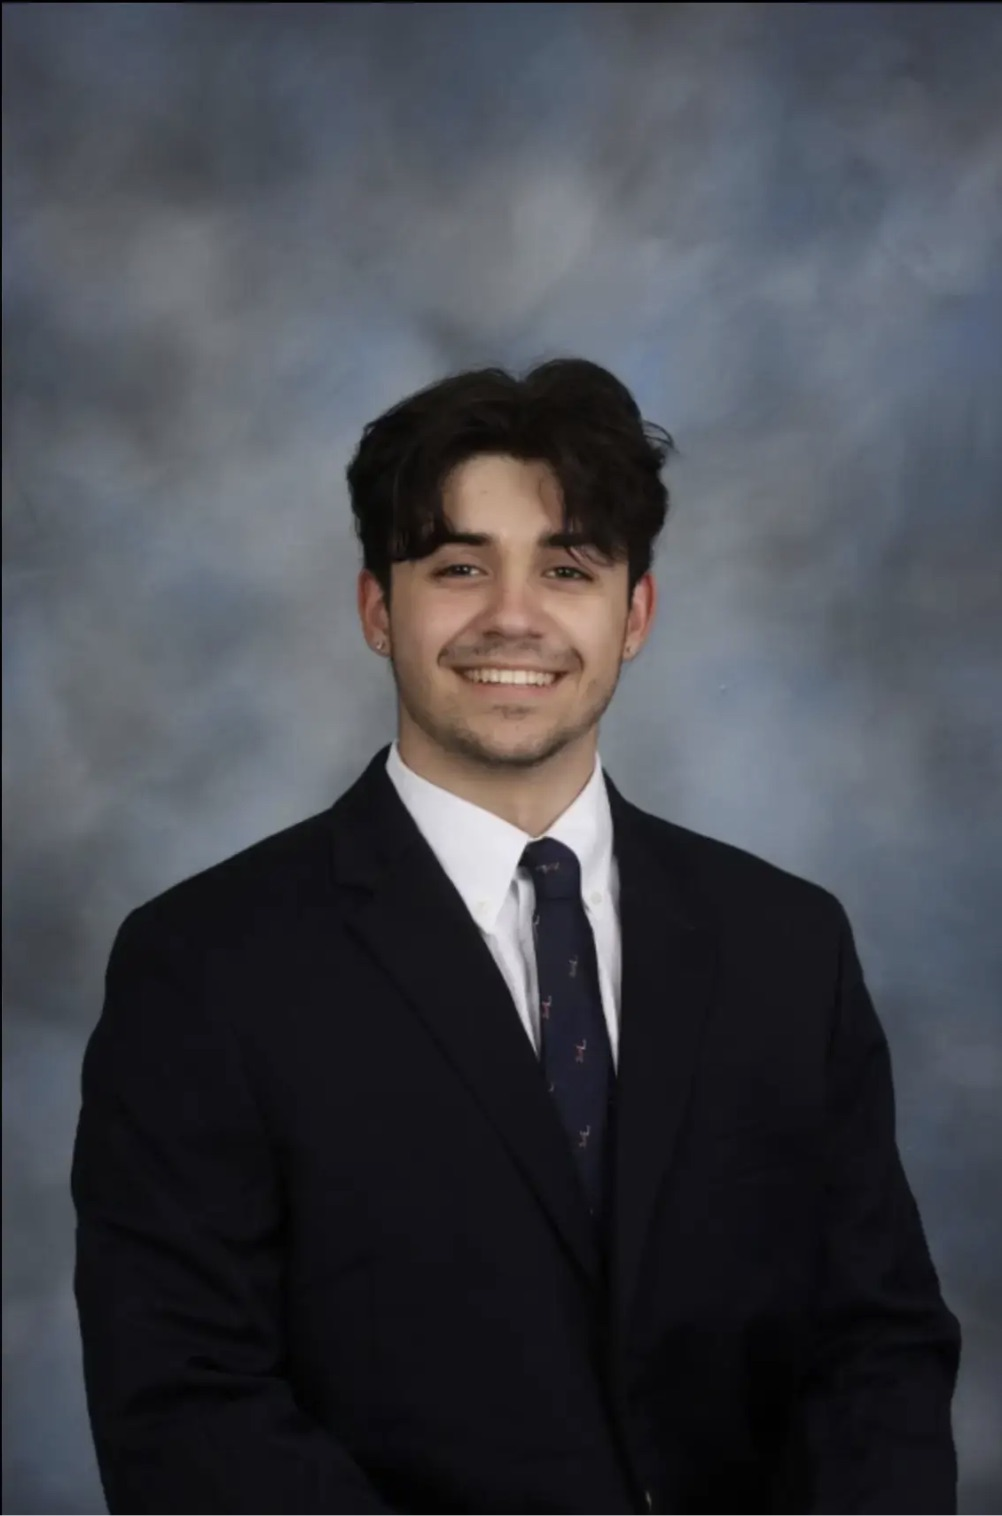
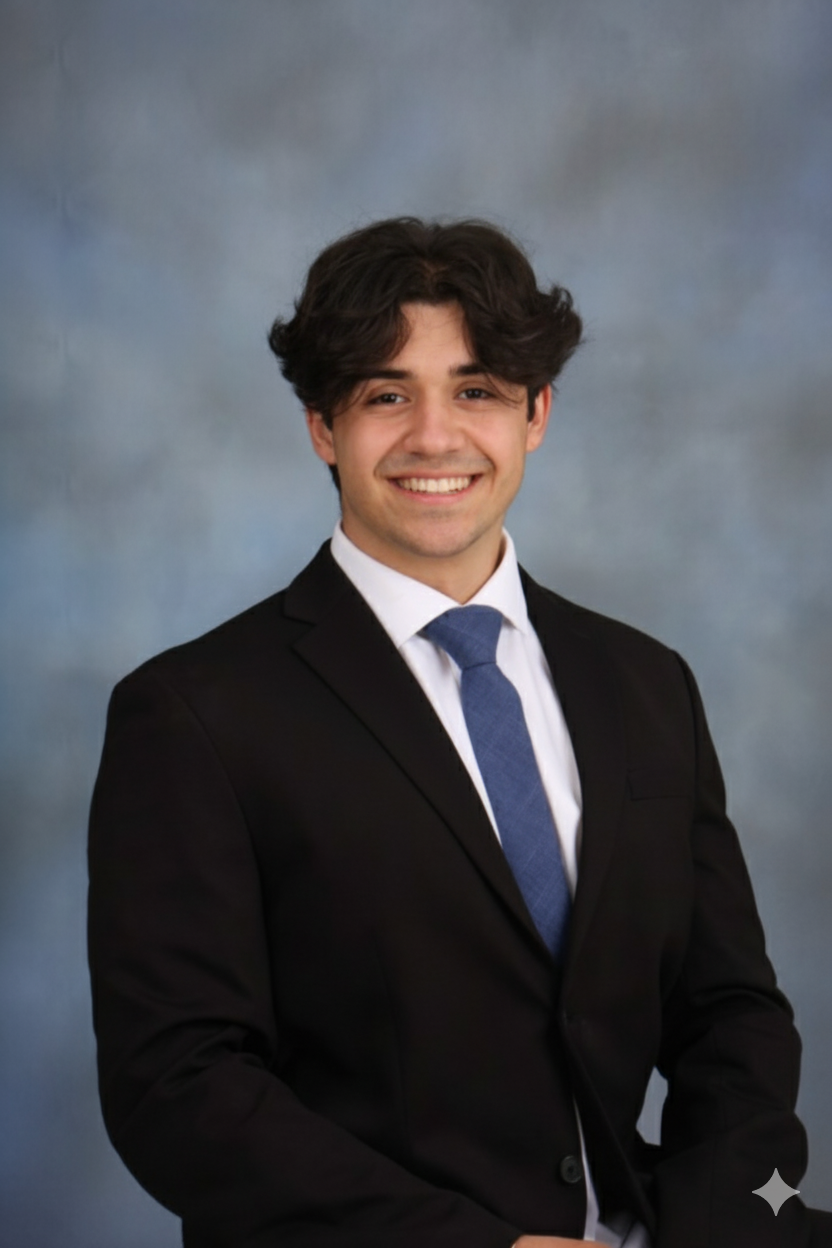
Tweak profile image positioning and update stats
Adjust profile image crop by adding object-[center_30%] to the HeroSection image class for better centering, update Stardewdle's plays count from "over 100k+" to "over 140k+", and replace the profile.jpeg asset with an updated image.

diff --git a/src/components/HeroSection.js b/src/components/HeroSection.js
@@ -18,7 +18,7 @@ export default function HeroSection() {
         <img
           src={profileImage}
           alt="A professional headshot of Chris Marquez"
-          className="w-48 h-48 md:w-56 md:h-56 rounded-full object-cover shadow-2xl border-4 border-white dark:border-gray-700"
+          className="w-48 h-48 md:w-56 md:h-56 rounded-full object-cover object-[center_30%] shadow-2xl border-4 border-white dark:border-gray-700"
         />
       </motion.div>
       <div className="max-w-2xl">

diff --git a/src/data/projects.js b/src/data/projects.js
@@ -6,7 +6,7 @@ export const projectsData = [
     id: "stardewdle",
     title: "Stardewdle",
     description:
-      "A Wordle-style guessing game with over 100k+ plays based on crops from the popular game Stardew Valley.",
+      "A Wordle-style guessing game with over 140k+ plays based on crops from the popular game Stardew Valley.",
     liveUrl: "https://stardewdle.com",
     repoUrl: "https://github.com/chrismarquezz/Stardewdle",
     image: stardewdleImage,
